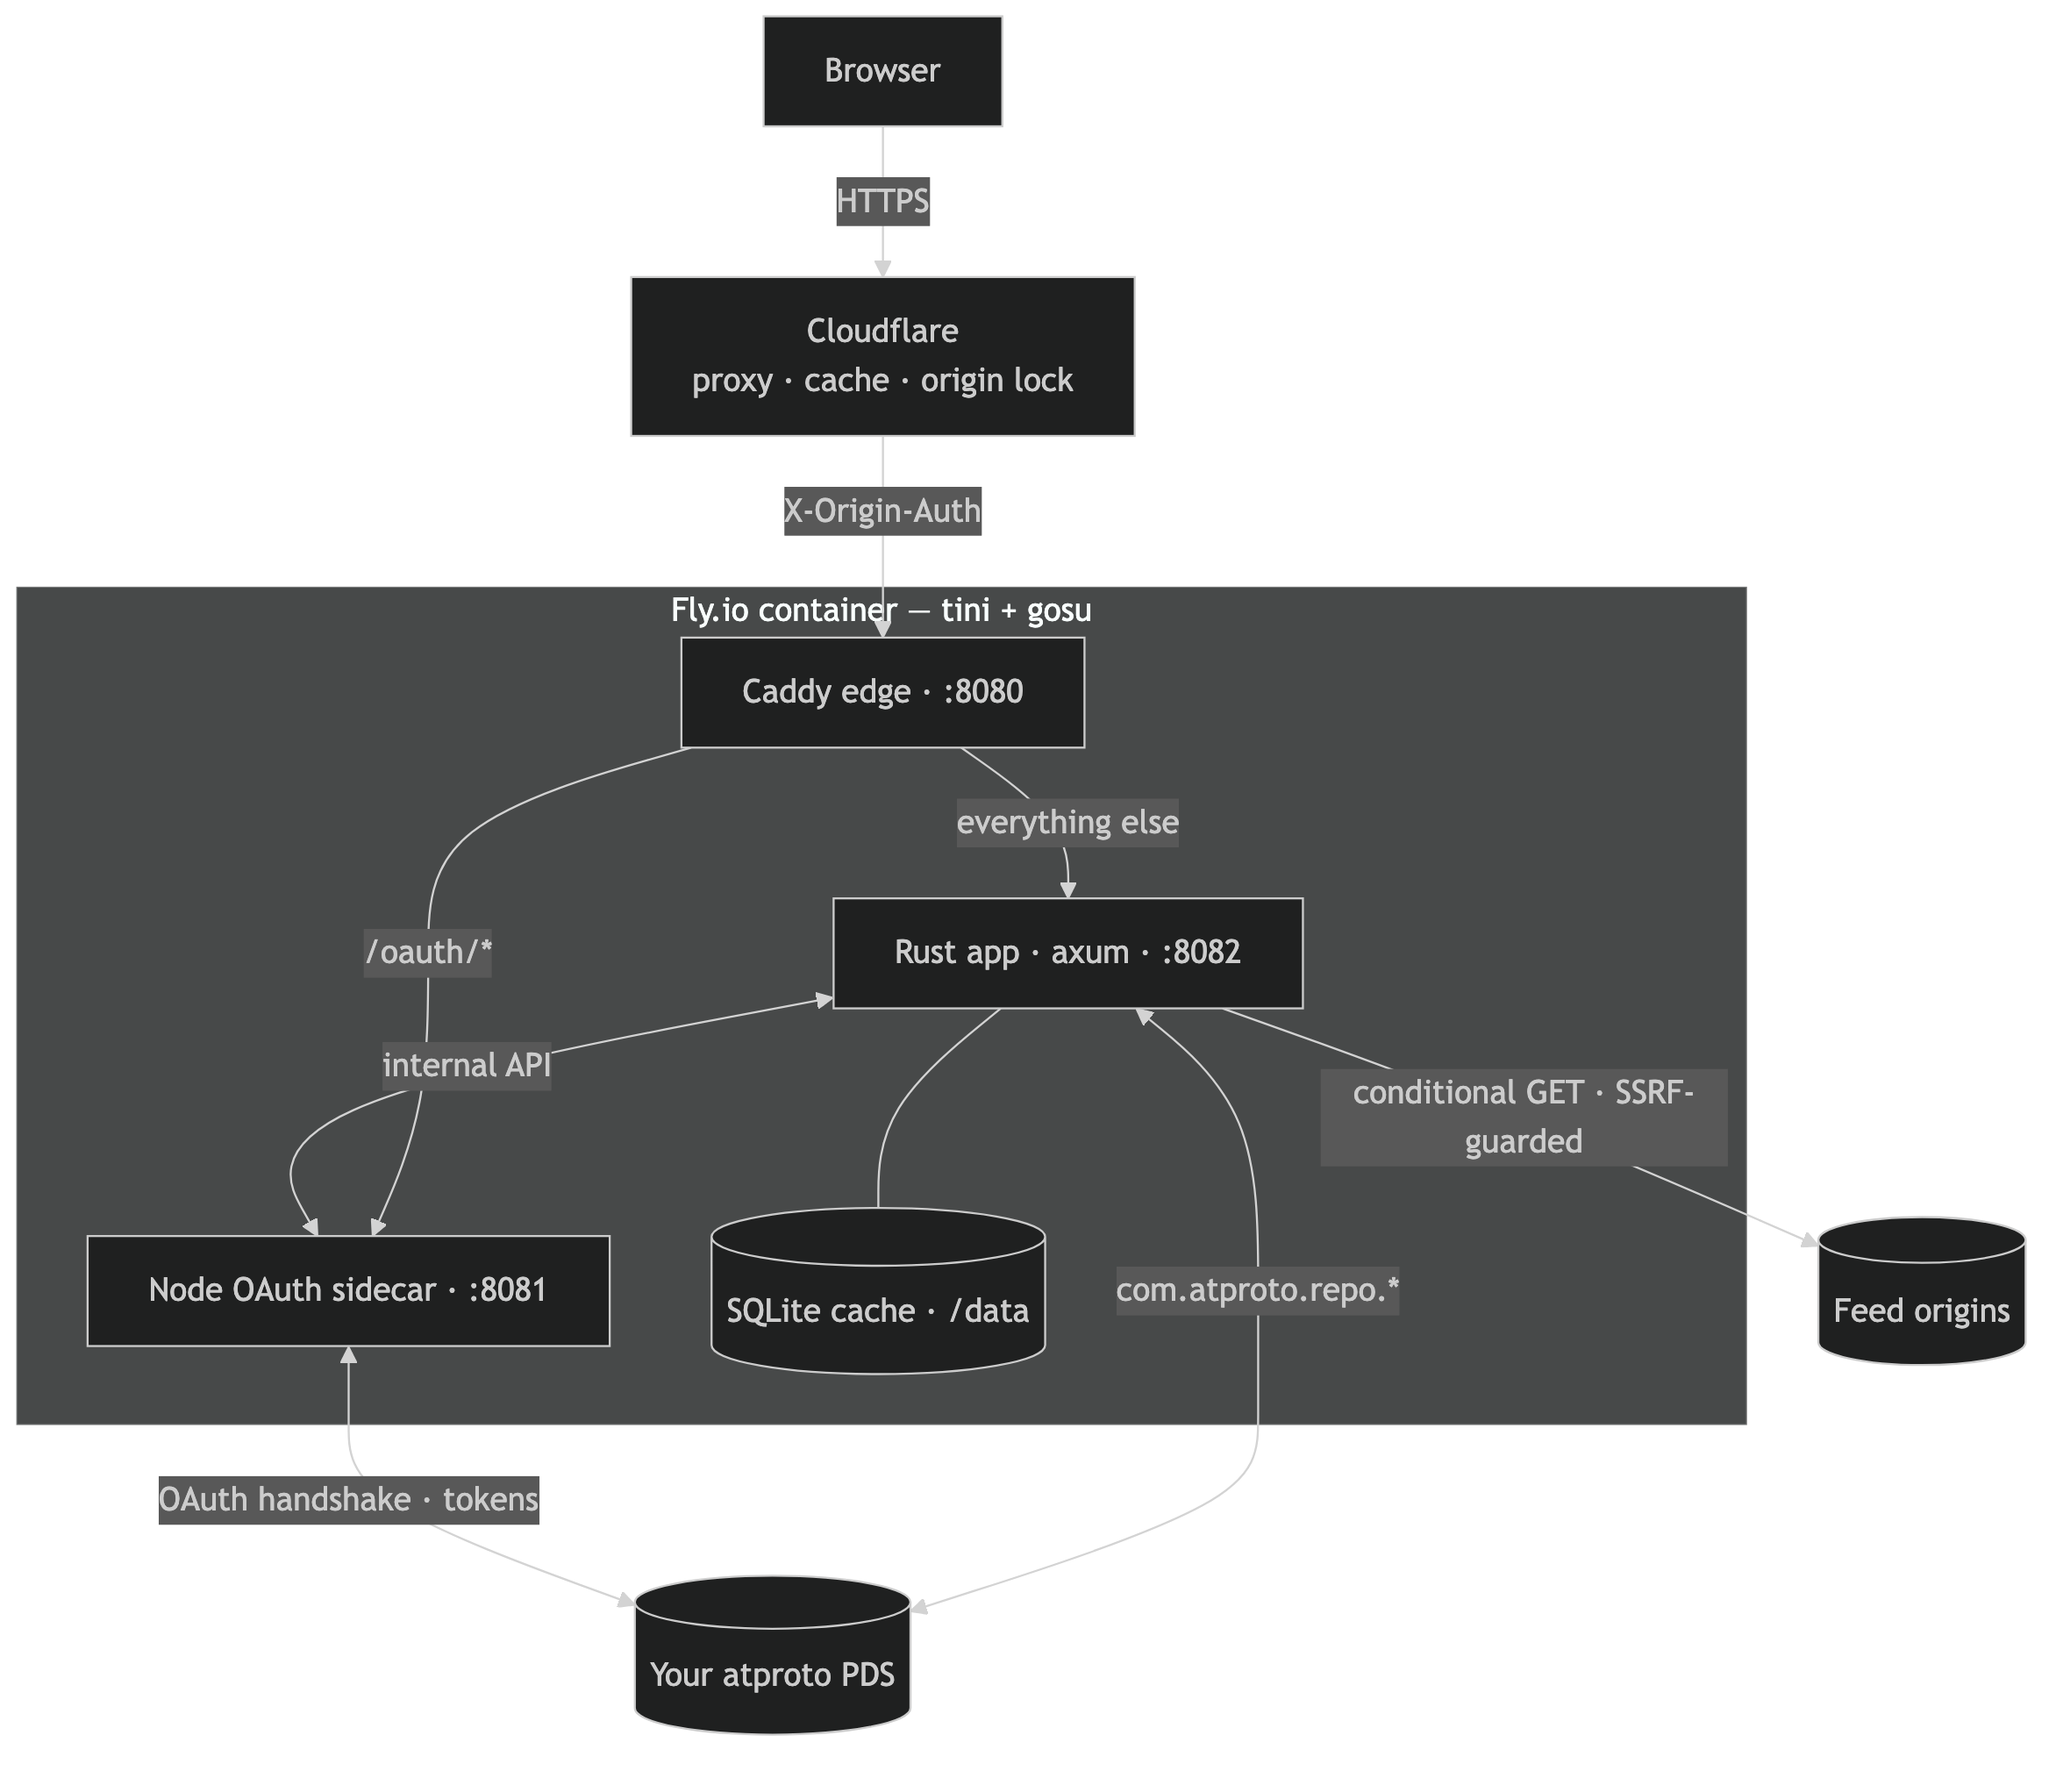
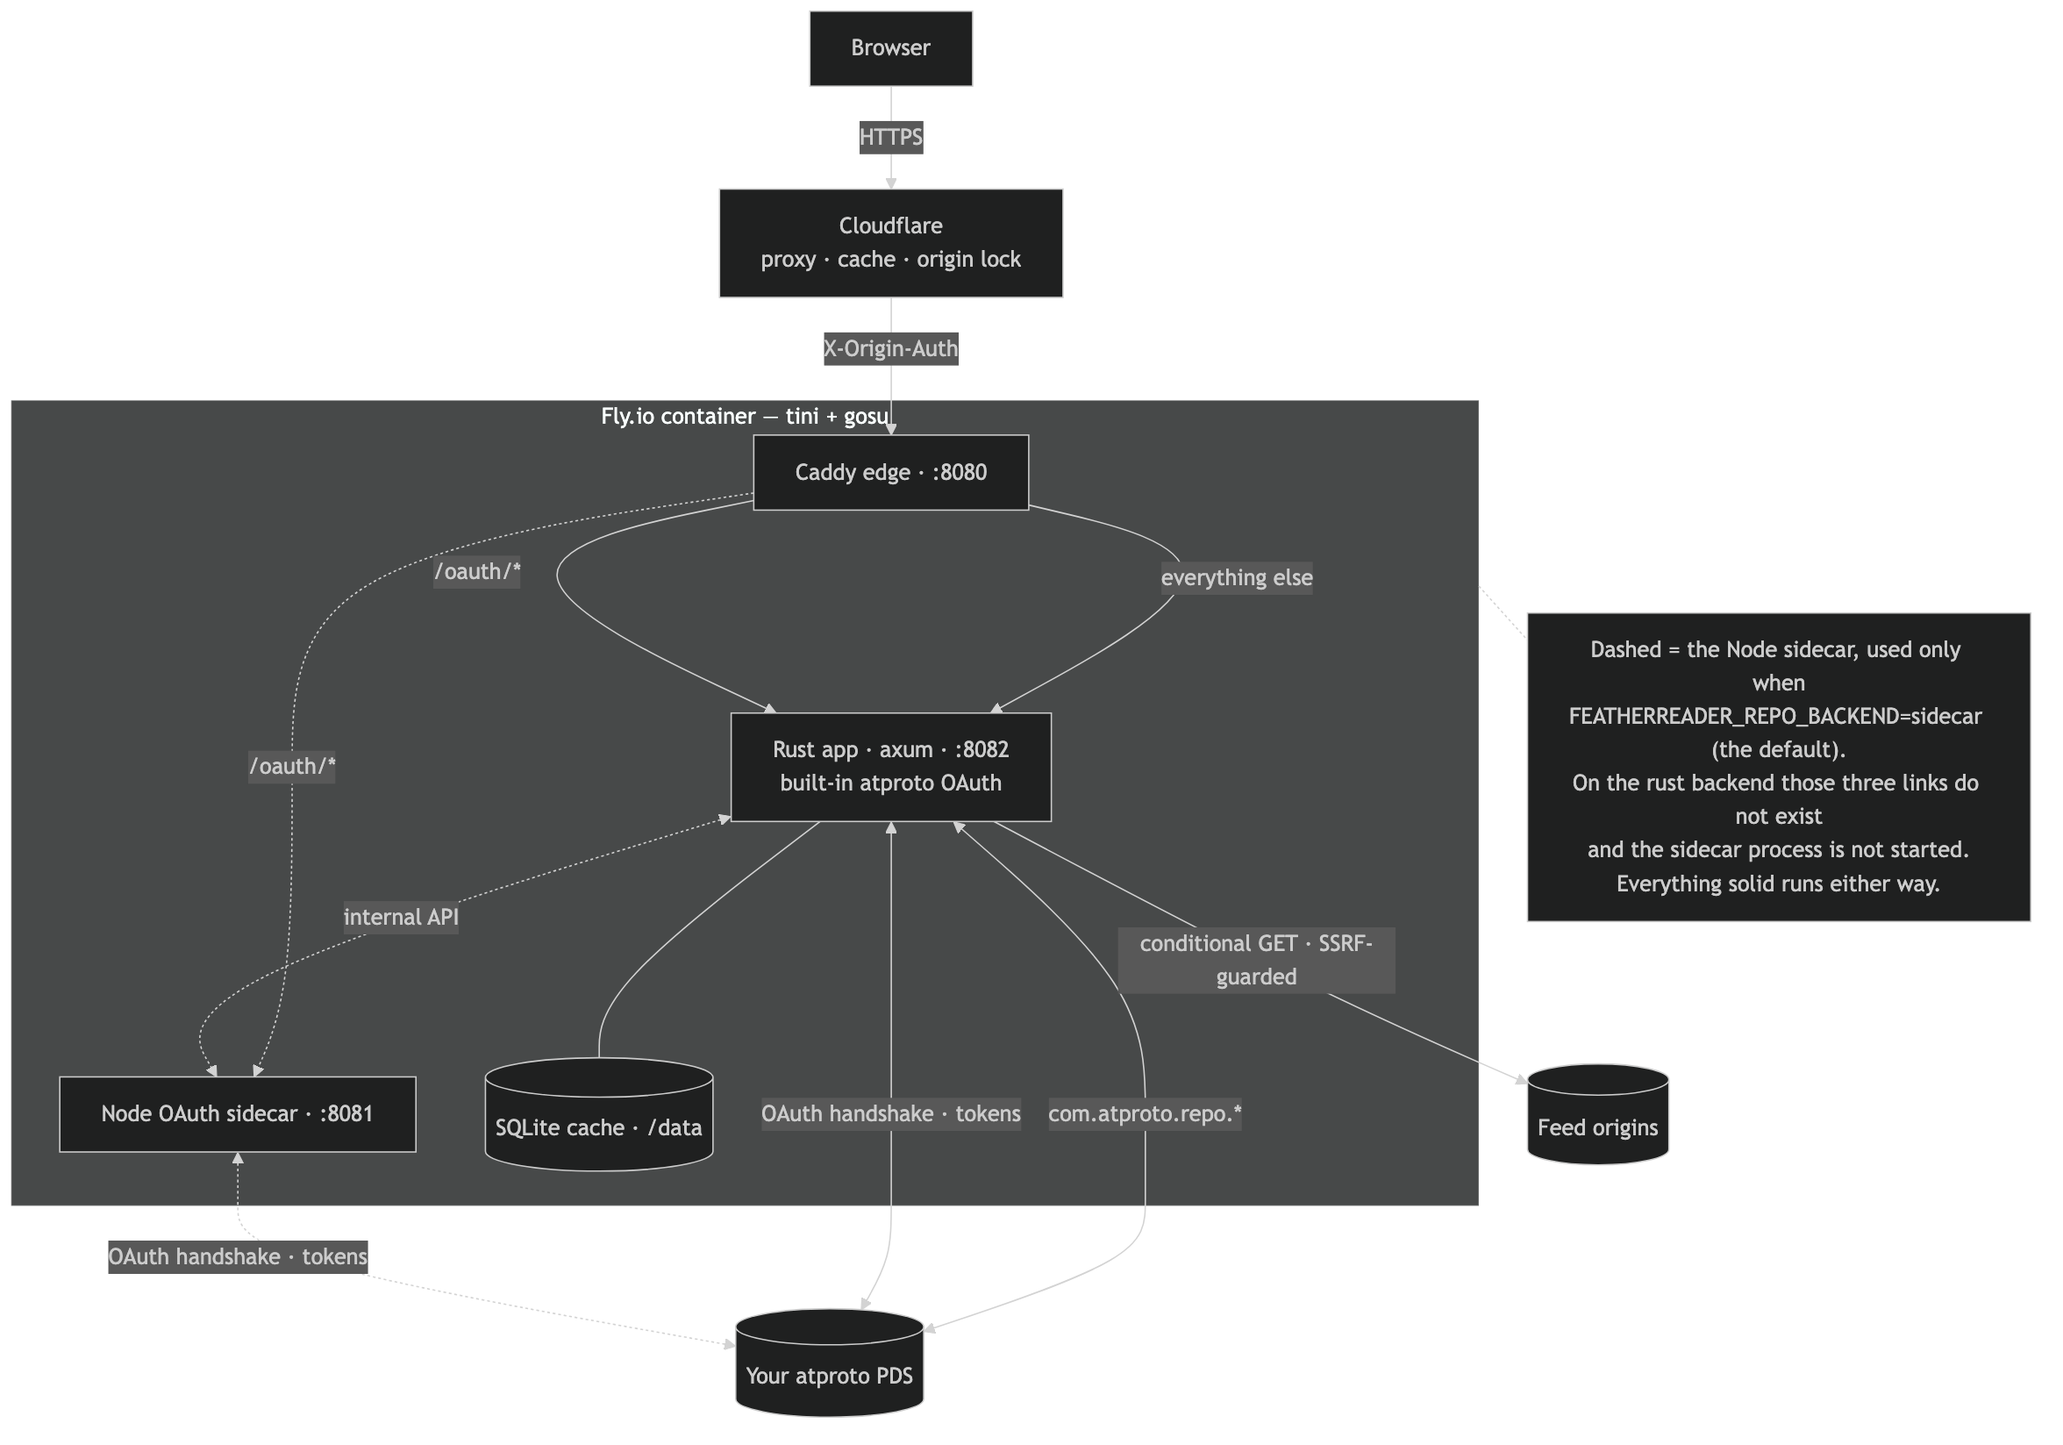
docs(architecture): redraw the runtime diagram for the two backends
The diagram and its alt text described a sidecar-only topology as fact. On
`FEATHERREADER_REPO_BACKEND=rust` that is simply wrong: the app owns `/oauth/*`,
talks to the PDS directly, and the `:8081` process is not started at all.

Both backends are now shown, with the three SIDECAR-ONLY links dashed — Caddy's
`/oauth/*` route to it, the internal API, and its OAuth handshake with the PDS —
and a legend saying so. Everything solid runs either way.

The first attempt at this had `linkStyle` indices off by enough to dash the
ALWAYS-ON paths (`everything else`, `com.atproto.repo.*`, the feed fetch) while
drawing the mutually exclusive OAuth routes solid — i.e. it stated the opposite
of the truth. Caught by rendering it and looking at it rather than trusting that
the source said what I meant. Index-based `linkStyle` is gone; the edges carry
their own `-.->` style, which cannot drift when a line is added above them.

The README alt text is rewritten too. It is what a screen reader gets, and it
described a topology that is now one of two.

Both PNG pairs regenerated at the documented settings and checked visually in
light and dark.

Claude-Session: https://claude.ai/code/session_0185ByyyJURzRxGXgdKSdz4g

diff --git a/README.md b/README.md
@@ -80,7 +80,7 @@ lexicon.
 <p align="center">
   <picture>
     <source media="(prefers-color-scheme: dark)" srcset="design/architecture/runtime-dark.png">
-    <img alt="Runtime: the browser reaches Cloudflare (proxy, cache, origin lock), which forwards to a single Fly.io container running Caddy on :8080 as the edge — routing /oauth/* to a Node OAuth sidecar on :8081 and everything else to the Rust axum app on :8082, which holds a disposable SQLite cache on /data. The app makes SSRF-guarded conditional-GET fetches to feed origins and com.atproto.repo.* calls to your atproto PDS; the sidecar handles the OAuth handshake and tokens with the PDS." src="design/architecture/runtime-light.png" width="620">
+    <img alt="Runtime: the browser reaches Cloudflare (proxy, cache, origin lock), which forwards to a single Fly.io container running Caddy on :8080 as the edge. Caddy sends everything to the Rust axum app on :8082, which holds a disposable SQLite cache on /data, makes SSRF-guarded conditional-GET fetches to feed origins, and makes com.atproto.repo.* calls to your atproto PDS. The OAuth handshake is handled either by the app itself (FEATHERREADER_REPO_BACKEND=rust, one process) or by a Node OAuth sidecar on :8081 that Caddy routes /oauth/* to (the sidecar backend, the default, two processes); exactly one of the two is live." src="design/architecture/runtime-light.png" width="620">
   </picture>
 </p>
 
@@ -90,11 +90,10 @@ the mounted volume is disposable; all durable state lives in your PDS. An
 [optional follow→invite bot](#invite-bot-optional) runs *outside* this container
 and reaches the app over `POST /bot/claims`; it isn't part of the core app.
 
-> **Note — the diagram shows the sidecar topology**, which is still the default.
-> Since 0.3.0 the Rust server can own the OAuth flow itself
-> (`FEATHERREADER_REPO_BACKEND=rust`), in which case `/oauth/*` is served by the
-> app on `:8082` and the `:8081` process is not started. See
-> [Choosing an OAuth backend](#choosing-an-oauth-backend).
+The dashed links are the Node sidecar, used only on the default `sidecar`
+backend. On `FEATHERREADER_REPO_BACKEND=rust` the app owns the OAuth flow itself,
+those links do not exist, and the `:8081` process is not started — see
+[Choosing an OAuth backend](#choosing-an-oauth-backend).
 
 <sub>Diagram sources + rendered images live in [`design/architecture/`](design/architecture).</sub>
 
